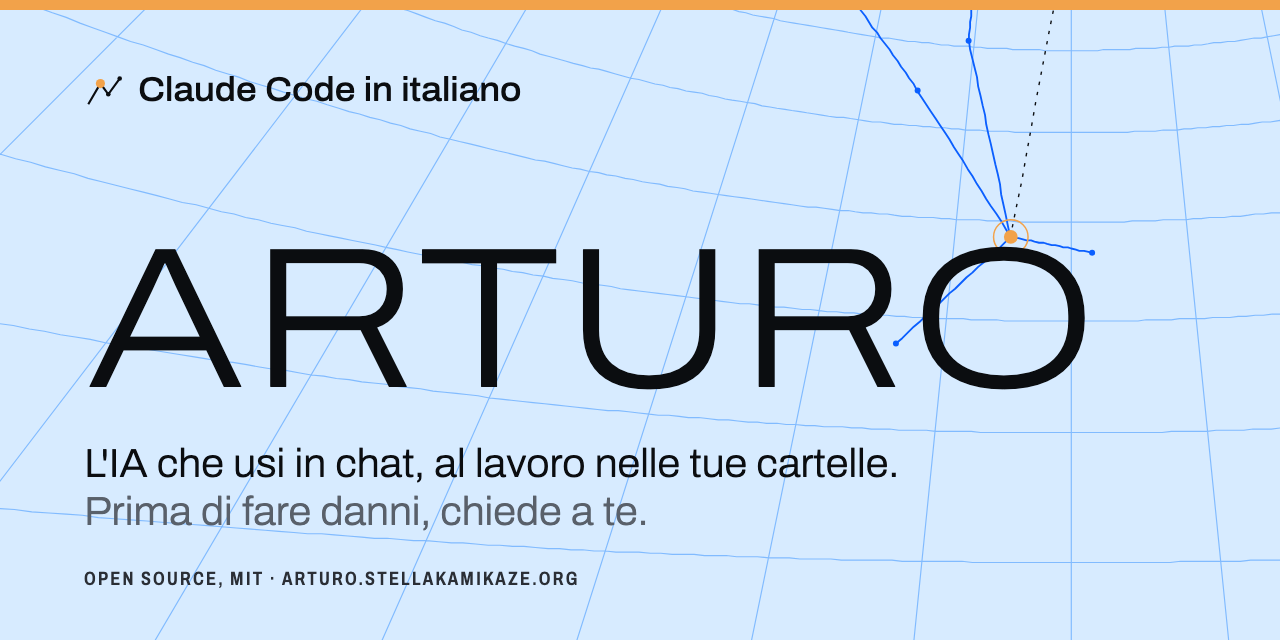
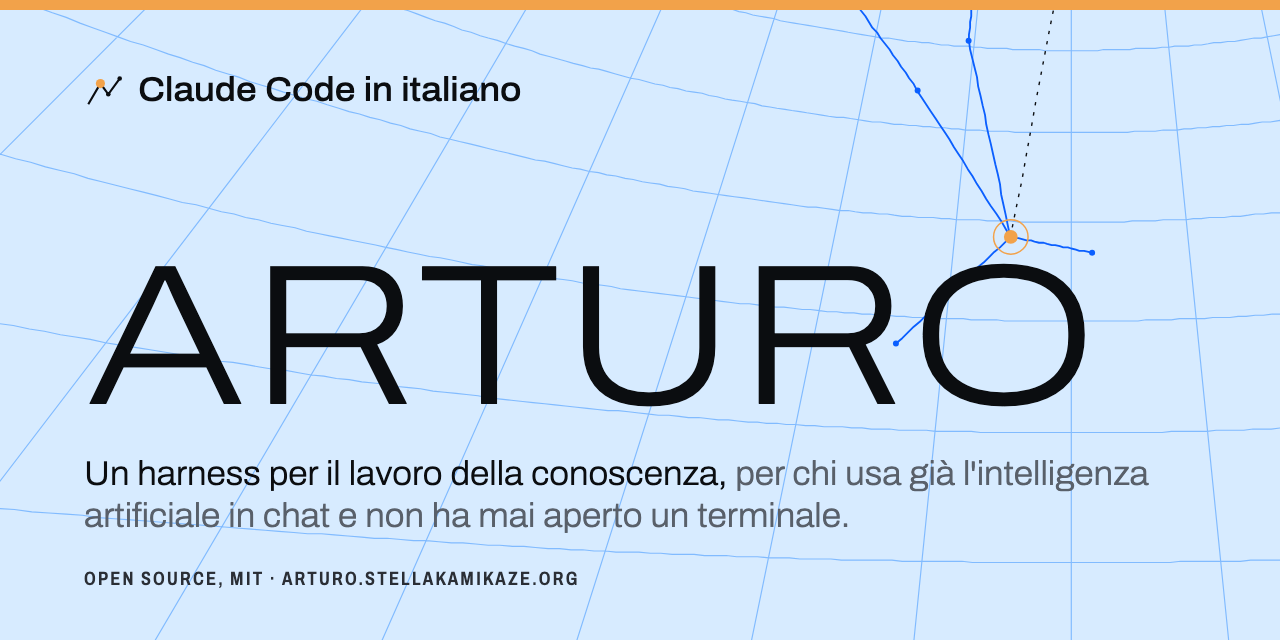
Landing: il claim di Arturo in apertura, in italiano e in inglese, e il perché del passaggio dalla chat
Claim di Federico (4/11) sotto la promessa, nella descrizione della pagina e in llms.txt; un
paragrafo in prima persona apre "Dalla chat al terminale" e "Who it is for". L'anteprima del
repository porta il claim. Testi letti da revisore-voce. Non ancora pubblicata.

Claude-Session: https://claude.ai/code/session_01MCZFEc7BsSVjxFieG4i1ti

diff --git a/sito/index.html b/sito/index.html
@@ -4,7 +4,7 @@
 <meta charset="utf-8">
 <meta name="viewport" content="width=device-width, initial-scale=1">
 <title>Arturo · Claude Code in italiano, dalla chat ai tuoi file</title>
-<meta name="description" content="Arturo porta chi usa l'IA in chat dentro Claude Code: lavora sui tuoi file e chiede prima di ogni azione che non si annulla. Gratuito, open source, in italiano.">
+<meta name="description" content="Arturo è un harness per il lavoro della conoscenza, pensato per chi usa già l'intelligenza artificiale in chat e non ha mai aperto un terminale. Gratuito, open source, in italiano.">
 <link rel="canonical" href="https://arturo.stellakamikaze.org/">
 <link rel="alternate" hreflang="it" href="https://arturo.stellakamikaze.org/">
 <link rel="alternate" hreflang="en" href="https://arturo.stellakamikaze.org/en/">
@@ -13,7 +13,7 @@
 <meta property="og:site_name" content="Arturo">
 <meta property="og:locale" content="it_IT">
 <meta property="og:title" content="Arturo · Claude Code in italiano, dalla chat ai tuoi file">
-<meta property="og:description" content="Arturo porta chi usa l'IA in chat dentro Claude Code: lavora sui tuoi file e chiede prima di ogni azione che non si annulla. Gratuito, open source, in italiano.">
+<meta property="og:description" content="Arturo è un harness per il lavoro della conoscenza, pensato per chi usa già l'intelligenza artificiale in chat e non ha mai aperto un terminale. Gratuito, open source, in italiano.">
 <meta property="og:url" content="https://arturo.stellakamikaze.org/">
 <meta property="og:image" content="https://arturo.stellakamikaze.org/img/og.png">
 <meta property="og:image:width" content="1200">
@@ -21,7 +21,7 @@
 <meta property="og:image:alt" content="Arturo, la stella sopra il reticolo blu della volta celeste">
 <meta name="twitter:card" content="summary_large_image">
 <meta name="twitter:title" content="Arturo · Claude Code in italiano, dalla chat ai tuoi file">
-<meta name="twitter:description" content="Arturo porta chi usa l'IA in chat dentro Claude Code: lavora sui tuoi file e chiede prima di ogni azione che non si annulla. Gratuito, open source, in italiano.">
+<meta name="twitter:description" content="Arturo è un harness per il lavoro della conoscenza, pensato per chi usa già l'intelligenza artificiale in chat e non ha mai aperto un terminale. Gratuito, open source, in italiano.">
 <meta name="twitter:image" content="https://arturo.stellakamikaze.org/img/og.png">
 <script type="application/ld+json">
 {
@@ -673,7 +673,7 @@ html[data-os="mac"] [data-solo="win"],html[data-os="win"] [data-solo="mac"]{disp
     <div class="promessa">
       <div>
         <h2>L'IA che usi in chat, al lavoro nelle tue cartelle. <span>Prima di fare danni, chiede a te.</span></h2>
-        <p class="promessa__testo">Arturo è gratuito e in italiano: prepara per te Claude Code, l'IA di Anthropic che lavora sui file del tuo Mac o PC.</p>
+        <p class="promessa__testo">Arturo è un harness per il lavoro della conoscenza, pensato per chi usa già l'intelligenza artificiale in chat e non ha mai aperto un terminale. È gratuito e open source: prende Claude Code, l'IA di Anthropic che lavora sui file del tuo Mac o PC, e te lo prepara in italiano.</p>
         <a class="azione azione--grande stretta" href="installa/">Guida passo per passo</a>
       </div>
       <div class="promessa__via">
@@ -783,6 +783,7 @@ html[data-os="mac"] [data-solo="win"],html[data-os="win"] [data-solo="mac"]{disp
     <div class="dentro">
       <div class="testa">
         <h2 id="t-chat">Dalla chat al terminale.</h2>
+        <p>Faccio l'autore, non il programmatore, e sono passato dalla chat al terminale per due motivi: in chat il materiale lo raccoglievo io e lo incollavo, mentre in Claude Code l'IA va a prenderlo da sola nelle mie cartelle e nella posta; e con Arturo il lavoro riparte la mattina dopo da dove l'avevo lasciato.</p>
         <p>La stessa richiesta, in due posti. In chat l'IA ti chiede il materiale. In Claude Code va a prenderselo da solo, nei canali che colleghi: calendario, posta, Drive, le tue cartelle, il web. Poi lo mette a confronto, ti riporta cosa ha trovato e si ferma solo prima di mandare.</p>
       </div>
 

diff --git a/sito/en/index.html b/sito/en/index.html
@@ -4,7 +4,7 @@
 <meta charset="utf-8">
 <meta name="viewport" content="width=device-width, initial-scale=1">
 <title>Arturo: a free, open source Claude Code harness in Italian</title>
-<meta name="description" content="Arturo is a free, open source (MIT) harness for Claude Code, written in Italian for people who use AI in chat and have never opened a terminal.">
+<meta name="description" content="Arturo is a harness for knowledge work, made for people who already use AI in chat but have never opened a terminal. Free, open source (MIT), in Italian.">
 <link rel="canonical" href="https://arturo.stellakamikaze.org/en/">
 <link rel="alternate" hreflang="it" href="https://arturo.stellakamikaze.org/">
 <link rel="alternate" hreflang="en" href="https://arturo.stellakamikaze.org/en/">
@@ -13,7 +13,7 @@
 <meta property="og:site_name" content="Arturo">
 <meta property="og:locale" content="en_US">
 <meta property="og:title" content="Arturo: a free, open source Claude Code harness in Italian">
-<meta property="og:description" content="Arturo is a free, open source (MIT) harness for Claude Code, written in Italian for people who use AI in chat and have never opened a terminal.">
+<meta property="og:description" content="Arturo is a harness for knowledge work, made for people who already use AI in chat but have never opened a terminal. Free, open source (MIT), in Italian.">
 <meta property="og:url" content="https://arturo.stellakamikaze.org/en/">
 <meta property="og:image" content="https://arturo.stellakamikaze.org/img/og.png">
 <meta property="og:image:width" content="1200">
@@ -22,7 +22,7 @@
 <meta property="article:modified_time" content="2026-11-04">
 <meta name="twitter:card" content="summary_large_image">
 <meta name="twitter:title" content="Arturo: a free, open source Claude Code harness in Italian">
-<meta name="twitter:description" content="Arturo is a free, open source (MIT) harness for Claude Code, written in Italian for people who use AI in chat and have never opened a terminal.">
+<meta name="twitter:description" content="Arturo is a harness for knowledge work, made for people who already use AI in chat but have never opened a terminal. Free, open source (MIT), in Italian.">
 <meta name="twitter:image" content="https://arturo.stellakamikaze.org/img/og.png">
 <script type="application/ld+json">
 {
@@ -320,7 +320,7 @@ a.menu__voce:hover{color:var(--inchiostro);text-decoration:underline;text-decora
         </ol>
       </nav>
       <h1 id="titolo">Arturo, a Claude Code harness in Italian</h1>
-      <p class="testata__lead">Arturo is a free, open source configuration for Claude Code, written in Italian for people who use AI in a chat window and have never opened a terminal.</p>
+      <p class="testata__lead">Arturo is a harness for knowledge work, made for people who already use AI in chat but have never opened a terminal. It is free and open source, and it speaks Italian.</p>
     </div>
   </div>
 </header>
@@ -340,6 +340,7 @@ a.menu__voce:hover{color:var(--inchiostro);text-decoration:underline;text-decora
       <article class="voce" id="who" aria-labelledby="t-who">
         <h2 id="t-who">Who it is for</h2>
         <div class="voce__corpo">
+          <p>I'm a writer, not a programmer, and I moved from the chat window to the terminal for two reasons. In a chat I had to collect the material myself and paste it in, while Claude Code goes and finds it in my folders and my email. And with Arturo the work picks up the next morning where I left it.</p>
           <p>People who already use ChatGPT or Claude in chat, mostly for writing, research and keeping documents in order, and want the AI to work inside their folders without learning the terminal. Arturo speaks Italian: its commands, guard messages, setup and documentation are in Italian, and staying in Italian is one of the project's commitments. This is its only page in English.</p>
         </div>
       </article>

diff --git a/strumenti/anteprima-github.html b/strumenti/anteprima-github.html
@@ -15,8 +15,8 @@ html,body{margin:0;width:1280px;height:640px;overflow:hidden;background:var(--ci
 .marchio{display:flex;align-items:center;gap:14px;font:500 34px/1 Archivo,sans-serif;font-stretch:108%;color:var(--inchiostro)}
 .marchio svg{width:40px;height:40px;color:var(--inchiostro)}
 .nome{margin:auto 0 0;font:250 200px/.86 Archivo,sans-serif;font-stretch:118%;letter-spacing:.01em;color:var(--inchiostro)}
-.promessa{margin:34px 0 0;font:300 40px/1.2 Archivo,sans-serif;font-stretch:104%;color:var(--inchiostro)}
-.promessa span{display:block;color:var(--cenere)}
+.promessa{margin:30px 0 0;max-width:1112px;font:300 34px/1.22 Archivo,sans-serif;font-stretch:104%;color:var(--inchiostro)}
+.promessa span{color:var(--cenere)}
 .piede{position:absolute;left:84px;bottom:52px;font:600 19px/1 Archivo,sans-serif;font-stretch:75%;letter-spacing:.12em;text-transform:uppercase;color:var(--grafite)}
 </style></head><body><div class="tela">
 <img class="volta" src="../sito/img/volta.svg" alt="">
@@ -24,7 +24,7 @@ html,body{margin:0;width:1280px;height:640px;overflow:hidden;background:var(--ci
 <div class="testo">
   <div class="marchio"><svg viewBox="0 0 28 28" fill="none" aria-hidden="true"><path d="M3 24 11.5 9.5 17 17l8-11" stroke="currentColor" stroke-width="1.5"/><circle cx="11.5" cy="9.5" r="3.2" fill="#f2a24a"/><circle cx="17" cy="17" r="1.6" fill="currentColor"/><circle cx="25" cy="6" r="1.6" fill="currentColor"/></svg>Claude Code in italiano</div>
   <h1 class="nome">ARTURO</h1>
-  <p class="promessa">L'IA che usi in chat, al lavoro nelle tue cartelle.<span>Prima di fare danni, chiede a te.</span></p>
+  <p class="promessa">Un harness per il lavoro della conoscenza, <span>per chi usa già l'intelligenza artificiale in chat e non ha mai aperto un terminale.</span></p>
 </div>
 <div class="piede">Open source, MIT · arturo.stellakamikaze.org</div>
 </div></body></html>
